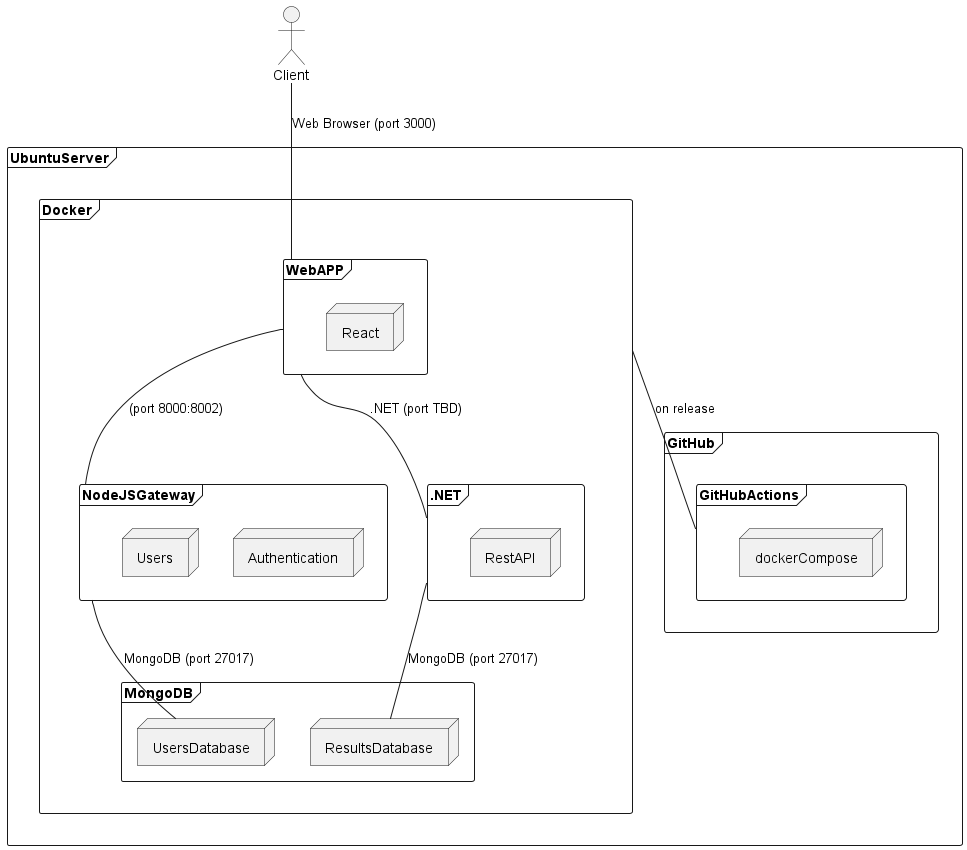
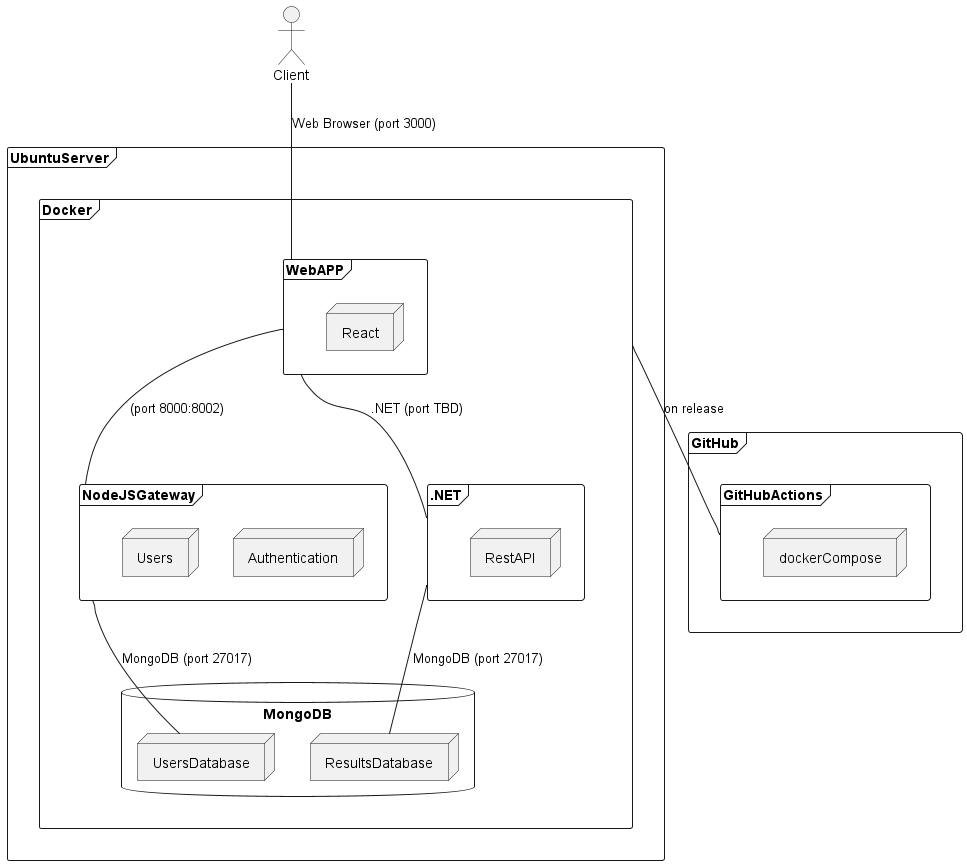
Updates

diff --git a/index.html b/index.html
@@ -483,7 +483,8 @@ body.book #toc,body.book #preamble,body.book h1.sect0,body.book .sect1>h2{page-b
 <ul class="sectlevel2">
 <li><a href="#_users_login">6.1. User&#8217;s Login</a></li>
 <li><a href="#_users_sign_up">6.2. User&#8217;s sign up</a></li>
-<li><a href="#_runtime_scenario_n">6.3. &lt;Runtime Scenario n&gt;</a></li>
+<li><a href="#_data_retrieval_from_wikidata">6.3. Data retrieval from WikiData</a></li>
+<li><a href="#_runtime_scenario_n">6.4. &lt;Runtime Scenario n&gt;</a></li>
 </ul>
 </li>
 <li><a href="#section-deployment-view">7. Deployment View</a>
@@ -763,6 +764,11 @@ These stakeholders determine the extent and the level of detail of your work and
 <td class="tableblock halign-left valign-top"><p class="tableblock">Intuitive and enjoyable quiz experience</p></td>
 </tr>
 <tr>
+<td class="tableblock halign-left valign-top"><p class="tableblock">Professors</p></td>
+<td class="tableblock halign-left valign-top"><p class="tableblock">Pablo Gonzalez, Jose Labra</p></td>
+<td class="tableblock halign-left valign-top"><p class="tableblock">The well-designed web application that fulfills the requirements</p></td>
+</tr>
+<tr>
 <td class="tableblock halign-left valign-top"><p class="tableblock">RTVE</p></td>
 <td class="tableblock halign-left valign-top"><p class="tableblock">Project Manager</p></td>
 <td class="tableblock halign-left valign-top"><p class="tableblock">Reliable and engaging platform for users</p></td>
@@ -1025,10 +1031,8 @@ together with a mapping table showing the relationships between channels and inp
 </div>
 </div>
 </div>
-<div class="paragraph">
-<p><strong>&lt;Diagram or Table&gt;</strong></p>
-</div>
 <table class="tableblock frame-all grid-all stretch">
+<caption class="title">Table 1. Table of the Technical Context</caption>
 <colgroup>
 <col style="width: 50%;">
 <col style="width: 50%;">
@@ -1040,11 +1044,11 @@ together with a mapping table showing the relationships between channels and inp
 </tr>
 <tr>
 <td class="tableblock halign-left valign-top"><p class="tableblock">Front-end</p></td>
-<td class="tableblock halign-left valign-top"><p class="tableblock">HTML, CSS, JavaScript (Svelte/React)</p></td>
+<td class="tableblock halign-left valign-top"><p class="tableblock">HTML, CSS (Tailwind), JavaScript (React)</p></td>
 </tr>
 <tr>
 <td class="tableblock halign-left valign-top"><p class="tableblock">Back-end</p></td>
-<td class="tableblock halign-left valign-top"><p class="tableblock">.NET/node.js, API de Wikidata</p></td>
+<td class="tableblock halign-left valign-top"><p class="tableblock">.NET/node.js, Wikidata&#8217;s API</p></td>
 </tr>
 <tr>
 <td class="tableblock halign-left valign-top"><p class="tableblock">Database</p></td>
@@ -1060,13 +1064,14 @@ together with a mapping table showing the relationships between channels and inp
 </tr>
 </tbody>
 </table>
-<div class="paragraph">
-<p><strong>&lt;optionally: Explanation of technical interfaces&gt;</strong></p>
+<div class="imageblock">
+<div class="content">
+<img src="./images/3_2-Technical-Context-Diagram-EN.png" alt="Technical Context">
 </div>
-<div class="paragraph">
-<p><strong>&lt;Mapping Input/Output to Channels&gt;</strong></p>
+<div class="title">Figure 1. Diagram of the Technical Context</div>
 </div>
 <table class="tableblock frame-all grid-all stretch">
+<caption class="title">Table 2. Mapping Input/Output to Channels</caption>
 <colgroup>
 <col style="width: 50%;">
 <col style="width: 50%;">
@@ -1771,7 +1776,7 @@ part of arc42 for additional levels.</p>
 </div>
 <div class="imageblock">
 <div class="content">
-<img src="./images/Login%20diagram.png" alt="Login diagram" width="285" height="378">
+<img src="./images/Login%20diagram.png" alt="Login diagram" width="379" height="378">
 </div>
 </div>
 </div>
@@ -1782,12 +1787,23 @@ part of arc42 for additional levels.</p>
 </div>
 <div class="imageblock">
 <div class="content">
-<img src="./images/Sign%20Up%20diagram.png" alt="Sign Up diagram" width="351" height="439">
+<img src="./images/Sign%20Up%20diagram.png" alt="Sign Up diagram" width="486" height="439">
 </div>
 </div>
 </div>
 <div class="sect2">
-<h3 id="_runtime_scenario_n">6.3. &lt;Runtime Scenario n&gt;</h3>
+<h3 id="_data_retrieval_from_wikidata">6.3. Data retrieval from WikiData</h3>
+<div class="paragraph">
+<p>Sequence diagram for the process of retrieving data from WikiData</p>
+</div>
+<div class="imageblock">
+<div class="content">
+<img src="./images/WikiData%20diagram.png" alt="WikiData diagram" width="431" height="482">
+</div>
+</div>
+</div>
+<div class="sect2">
+<h3 id="_runtime_scenario_n">6.4. &lt;Runtime Scenario n&gt;</h3>
 <div style="page-break-after: always;"></div>
 </div>
 </div>
@@ -1948,7 +1964,7 @@ This will allow our team to achieve continuous deployment and delivery.</p>
 </div>
 <div class="imageblock">
 <div class="content">
-<img src="./images/deployment-diagram.png" alt="deployment diagram" width="967" height="850">
+<img src="./images/deployment-diagram.png" alt="deployment diagram" width="967" height="865">
 </div>
 </div>
 </div>
@@ -2259,7 +2275,7 @@ These are the initial decicision that we have made but they change during the co
 The following table contains some of the design decisions that were imposed to us due to the architectural constraints:</p>
 </div>
 <table class="tableblock frame-all grid-all stretch">
-<caption class="title">Table 1. Imposed decisions</caption>
+<caption class="title">Table 3. Imposed decisions</caption>
 <colgroup>
 <col style="width: 25%;">
 <col style="width: 25%;">
@@ -2300,7 +2316,7 @@ The following table contains some of the design decisions that were imposed to u
 </tbody>
 </table>
 <table class="tableblock frame-all grid-all stretch">
-<caption class="title">Table 2. Architectural Records</caption>
+<caption class="title">Table 4. Architectural Records</caption>
 <colgroup>
 <col style="width: 33.3333%;">
 <col style="width: 33.3333%;">
@@ -2503,7 +2519,7 @@ more precisely down to a level of scenarios that can be discussed and evaluated.
 <tr>
 <td class="tableblock halign-left valign-top"><p class="tableblock"><strong>Performance</strong></p></td>
 <td class="tableblock halign-left valign-top"><p class="tableblock">The application must have a reasonable response time. Slow applications are not positively popular in society.</p></td>
-<td class="tableblock halign-left valign-top"><p class="tableblock">The application must be able to give a fast response time to the users so the game is dynamic and entertaining.</p></td>
+<td class="tableblock halign-left valign-top"><p class="tableblock">The application must be able to give a response time of at least 5 seconds with 10 concurrent users.</p></td>
 <td class="tableblock halign-left valign-top"><p class="tableblock">Very high</p></td>
 </tr>
 <tr>
@@ -2513,16 +2529,16 @@ more precisely down to a level of scenarios that can be discussed and evaluated.
 <td class="tableblock halign-left valign-top"><p class="tableblock">Very high</p></td>
 </tr>
 <tr>
-<td class="tableblock halign-left valign-top"><p class="tableblock"><strong>Portability</strong></p></td>
-<td class="tableblock halign-left valign-top"><p class="tableblock">To reach the maximum number of users the application must work in the maximum number of infrastructures.</p></td>
-<td class="tableblock halign-left valign-top"><p class="tableblock">When users access the web from different browsers and devices, it must work and provide all the possible functionalities.</p></td>
+<td class="tableblock halign-left valign-top"><p class="tableblock"><strong>Usability</strong></p></td>
+<td class="tableblock halign-left valign-top"><p class="tableblock">To make the website stand out from the competition, it must be easy to use, attract attention and be aestethic.</p></td>
+<td class="tableblock halign-left valign-top"><p class="tableblock">The user must be able to do identify the game elements shown in the screen as well as the menu for the different functionalities as the view profile or the logout ones.</p></td>
 <td class="tableblock halign-left valign-top"><p class="tableblock">Very high</p></td>
 </tr>
 <tr>
-<td class="tableblock halign-left valign-top"><p class="tableblock"><strong>Usability</strong></p></td>
-<td class="tableblock halign-left valign-top"><p class="tableblock">To make the website stand out from the competition, it must be easy to use, attract attention and be aestethic.</p></td>
-<td class="tableblock halign-left valign-top"><p class="tableblock">When the user wants to do something in the application, he/she should be able to do it without difficulty, guided by the interface elements.</p></td>
-<td class="tableblock halign-left valign-top"><p class="tableblock">Very high</p></td>
+<td class="tableblock halign-left valign-top"><p class="tableblock"><strong>Portability</strong></p></td>
+<td class="tableblock halign-left valign-top"><p class="tableblock">To reach the maximum number of users the application must work in the maximum number of infrastructures.</p></td>
+<td class="tableblock halign-left valign-top"><p class="tableblock">The game experience and functionalities must be the same independently from the device which the user is connecting from.</p></td>
+<td class="tableblock halign-left valign-top"><p class="tableblock">High</p></td>
 </tr>
 <tr>
 <td class="tableblock halign-left valign-top"><p class="tableblock"><strong>Testability</strong></p></td>
@@ -2791,7 +2807,7 @@ self-explanatory description, the probability of its occurrence, its impact on t
 <div id="footer">
 <div id="footer-text">
 Version 8.2 EN<br>
-Last updated 2024-02-01 12:49:52 +0100
+Last updated 2024-02-26 17:35:38 +0100
 </div>
 </div>
 </body>
